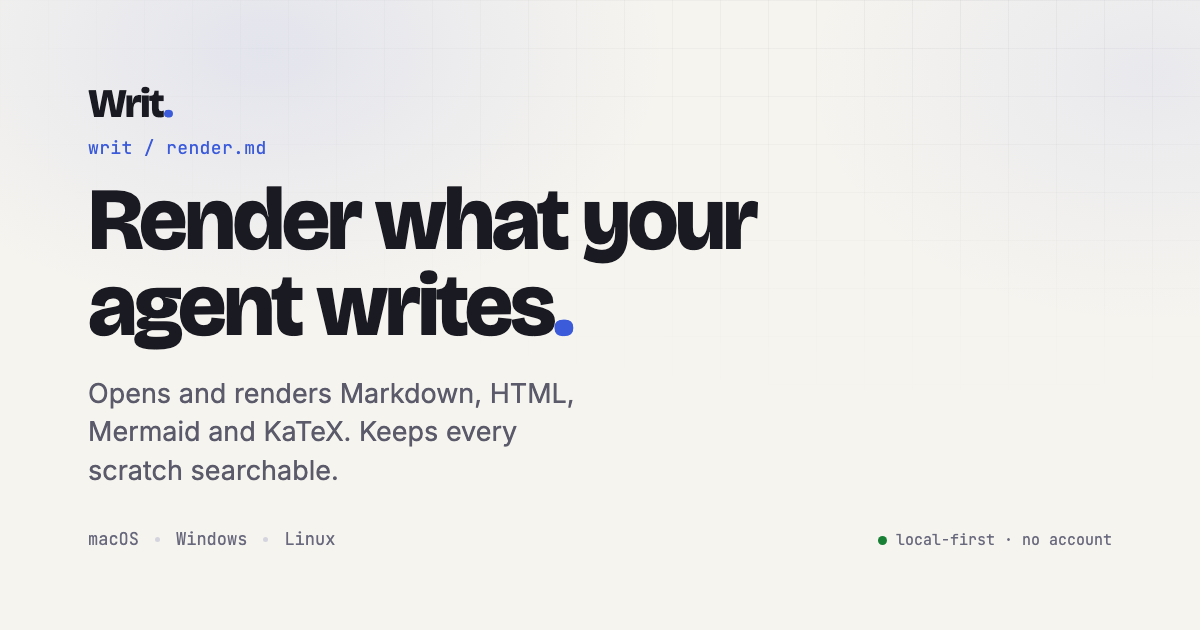
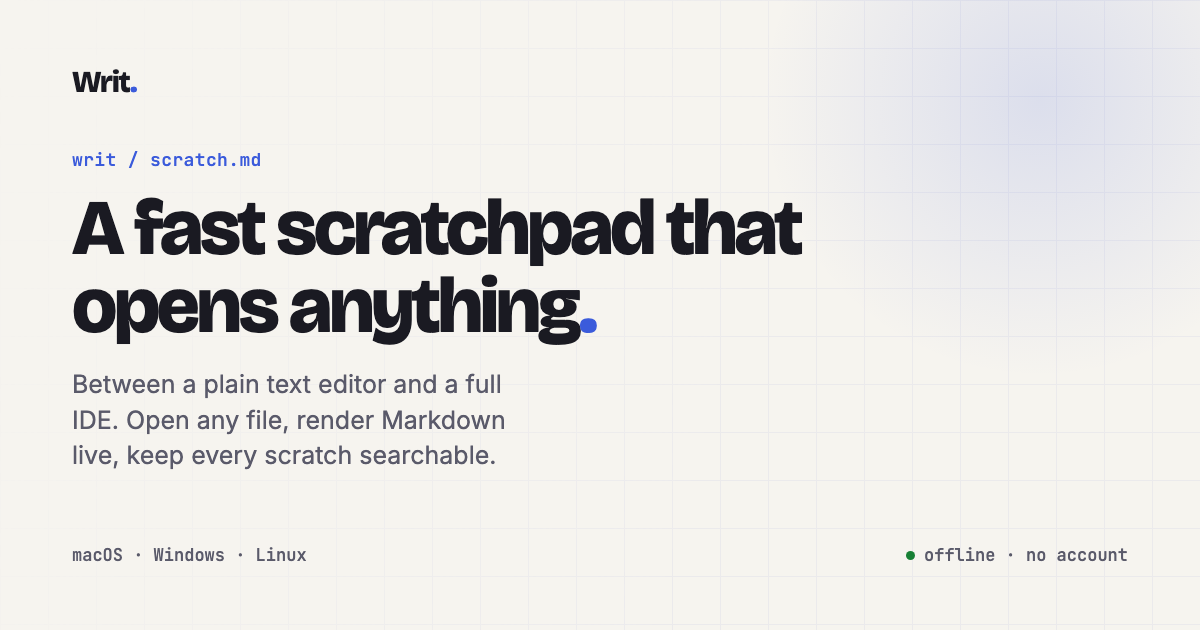
feat(site): lead the v2 landing with the editor identity
Rewrites the /v2 copy so the fast, keyboard-first scratchpad and viewer
leads and the Markdown/AI use rides alongside as one example, not the
headline. Touches the hero, sections, download, footer, ticker, page
title and meta description, plus a regenerated 1200x630 OG raster.

- Command palette shown as Shift+Shift to match the app's binding (was
  the design's ⌘K); the window also opens it on a double-tap of Shift.
- render: drop hrefs carrying javascript/data/vbscript schemes so an
  edited Markdown link can't run in the preview; covered by a test.
- Focus-visible rings on the header controls, CTAs and palette/search.

diff --git a/site/src/islands/WritWindow.tsx b/site/src/islands/WritWindow.tsx
@@ -59,6 +59,7 @@ export default function WritWindow() {
   const dynamicBuffers = useRef<Record<string, BufferMeta>>({});
   const newCount = useRef(0);
   const hover = useRef(false);
+  const lastShift = useRef(0);
   const lastMermaid = useRef('');
   const saveTimer = useRef<ReturnType<typeof setTimeout> | null>(null);
 
@@ -368,13 +369,23 @@ export default function WritWindow() {
 
     const onKey = (e: KeyboardEvent) => {
       const k = e.key;
-      if ((e.metaKey || e.ctrlKey) && (k === 'k' || k === 'K')) {
-        const focusWithin = rootRef.current?.contains(document.activeElement);
-        if (hover.current || focusWithin || paletteOpen) {
-          e.preventDefault();
-          togglePalette();
+      // Command palette opens on a double-tap of Shift (matches the app's Shift+Shift binding).
+      if (k === 'Shift' && !e.repeat && !e.metaKey && !e.ctrlKey && !e.altKey) {
+        const now = performance.now();
+        const within = now - lastShift.current < 400;
+        lastShift.current = now;
+        if (within) {
+          const focusWithin = rootRef.current?.contains(document.activeElement);
+          if (hover.current || focusWithin || paletteOpen) {
+            e.preventDefault();
+            lastShift.current = 0;
+            togglePalette();
+          }
         }
-      } else if (k === 'Escape' && paletteOpen) {
+        return;
+      }
+      lastShift.current = 0;
+      if (k === 'Escape' && paletteOpen) {
         setPaletteOpen(false);
       }
     };
@@ -563,8 +574,8 @@ export default function WritWindow() {
               +
             </button>
           </div>
-          <button className="ww-kbtn hide-sm" onClick={openPalette} aria-label="Open command palette" type="button">
-            ⌘K
+          <button className="ww-kbtn hide-sm" onClick={openPalette} aria-label="Open command palette (Shift Shift)" type="button">
+            ⇧⇧
           </button>
         </div>
 
@@ -683,7 +694,7 @@ export default function WritWindow() {
             <div className="ww-palette-scrim" onClick={() => setPaletteOpen(false)}>
               <div className="ww-palette" onClick={(e) => e.stopPropagation()}>
                 <div className="ww-palette-head">
-                  <span className="ww-palette-glyph">⌘K</span>
+                  <span className="ww-palette-glyph">⇧⇧</span>
                   <input
                     ref={paletteRef}
                     value={paletteQuery}
@@ -757,14 +768,14 @@ export default function WritWindow() {
               </button>
             </div>
           )}
-          <button className="stog" onClick={openPalette} aria-label="Open command palette" style={{ color: 'var(--foreground)' }}>
-            ⌘K
+          <button className="stog" onClick={openPalette} aria-label="Open command palette (Shift Shift)" style={{ color: 'var(--foreground)' }}>
+            ⇧⇧
           </button>
         </div>
       </div>
       <p className="ww-caption">
-        Live window. Switch tabs, edit <span className="ww-mono">report.md</span>, press{' '}
-        <span className="ww-mono">⌘K</span>, search.
+        Live window. Switch tabs, edit <span className="ww-mono">report.md</span>, double-tap{' '}
+        <span className="ww-mono">⇧</span>, search.
       </p>
     </div>
   );

diff --git a/site/src/islands/writ/__tests__/window.test.tsx b/site/src/islands/writ/__tests__/window.test.tsx
@@ -18,15 +18,32 @@ describe('WritWindow', () => {
     }
   });
 
-  it('opens the command palette from a ⌘K button', () => {
+  it('opens the command palette from a ⇧⇧ button', () => {
     render(<WritWindow />);
-    fireEvent.click(screen.getAllByRole('button', { name: 'Open command palette' })[0]!);
+    fireEvent.click(screen.getAllByRole('button', { name: 'Open command palette (Shift Shift)' })[0]!);
     expect(screen.getByPlaceholderText('Type a command…')).toBeTruthy();
+  });
+
+  it('opens the command palette on a double-tap of Shift when focused', () => {
+    render(<WritWindow />);
+    const input = screen.getByPlaceholderText('Search buffers…') as HTMLInputElement;
+    input.focus();
+    fireEvent.keyDown(document, { key: 'Shift' });
+    fireEvent.keyDown(document, { key: 'Shift' });
+    expect(screen.getByPlaceholderText('Type a command…')).toBeTruthy();
+  });
+
+  it('does not open the palette on a single Shift', () => {
+    render(<WritWindow />);
+    const input = screen.getByPlaceholderText('Search buffers…') as HTMLInputElement;
+    input.focus();
+    fireEvent.keyDown(document, { key: 'Shift' });
+    expect(screen.queryByPlaceholderText('Type a command…')).toBeNull();
   });
 
   it('runs a transform from the palette and marks the buffer edited', () => {
     render(<WritWindow />);
-    fireEvent.click(screen.getAllByRole('button', { name: 'Open command palette' })[0]!);
+    fireEvent.click(screen.getAllByRole('button', { name: 'Open command palette (Shift Shift)' })[0]!);
     fireEvent.click(screen.getByText('Trim Leading Whitespace'));
     expect(screen.getByText('Edited')).toBeTruthy();
   });

diff --git a/site/src/styles/v2.css b/site/src/styles/v2.css
@@ -632,6 +632,21 @@
 .ftab:focus-visible,
 .ftab .x:focus-visible { outline: 2px solid var(--accent); outline-offset: 1px; }
 
+/* Header controls, CTAs and section triggers — visible keyboard focus. */
+.seg:focus-visible,
+.topnav a:focus-visible,
+.v2-btn-primary:focus-visible,
+.v2-btn-ghost:focus-visible,
+.gtrig:focus-visible,
+.dlbtn:focus-visible,
+.ww-kbtn:focus-visible,
+.ww-newtab:focus-visible,
+.stog:focus-visible,
+.srow:focus-visible,
+.pcmd:focus-visible,
+.ww-search-input:focus-visible,
+.ww-palette-input:focus-visible { outline: 2px solid var(--accent); outline-offset: 2px; border-radius: 8px; }
+
 /* ─── Reduced motion ─────────────────────────────────────────────────────── */
 @media (prefers-reduced-motion: reduce) {
   .ticker .track { animation: none; transform: none; }

diff --git a/site/src/islands/writ/__tests__/render.test.ts b/site/src/islands/writ/__tests__/render.test.ts
@@ -71,6 +71,16 @@ describe('renderInline', () => {
     expect(link).toContain('rel="noopener noreferrer"');
     expect(link).toContain('target="_blank"');
   });
+
+  it('drops the href on script-scheme links but keeps the label', () => {
+    for (const scheme of ['javascript:alert', 'JAVASCRIPT:alert', 'data:text/html,x', 'vbscript:msgbox']) {
+      const out = renderInline(`[click](${scheme})`);
+      expect(out).toContain('click');
+      expect(out).not.toContain('<a');
+      expect(out).not.toContain('href');
+      expect(out.toLowerCase()).not.toContain('script:');
+    }
+  });
 });
 
 describe('tokens', () => {

diff --git a/site/src/islands/writ/render.ts b/site/src/islands/writ/render.ts
@@ -9,6 +9,12 @@ function escapeAttr(s: string): string {
   return escapeHtml(s).replace(/"/g, '&quot;');
 }
 
+// Drop hrefs that carry an executable scheme. The editable surface is Markdown,
+// so a [label](javascript:…) link would otherwise stay clickable in the preview.
+function isSafeUrl(url: string): boolean {
+  return !/^\s*(javascript|data|vbscript|file):/i.test(url);
+}
+
 const PH_OPEN = String.fromCharCode(0);
 const PH_CLOSE = String.fromCharCode(1);
 
@@ -26,7 +32,9 @@ export function renderInline(text: string): string {
   t = t.replace(
     /\[([^\]]+)\]\(([^)]+)\)/g,
     (_m, label: string, url: string) =>
-      '<a href="' + escapeAttr(url) + '" target="_blank" rel="noopener noreferrer">' + label + '</a>',
+      isSafeUrl(url)
+        ? '<a href="' + escapeAttr(url) + '" target="_blank" rel="noopener noreferrer">' + label + '</a>'
+        : label,
   );
   t = t.replace(/\*\*([^*]+)\*\*/g, '<strong>$1</strong>');
   t = t.replace(/(^|[^*])\*([^*\n]+)\*/g, '$1<em>$2</em>');

diff --git a/site/src/islands/writ/buffers.ts b/site/src/islands/writ/buffers.ts
@@ -165,7 +165,7 @@ const releaseHtml = join([
   '<section style="font-family:system-ui; max-width:540px">',
   '  <h1 style="margin:0 0 8px">Writ 1.0 is here</h1>',
   '  <p style="color:#5a5a6a; line-height:1.5">Render Markdown, HTML, Mermaid and KaTeX the',
-  '  instant your agent writes it — fully offline, with every scratch searchable.</p>',
+  '  moment you open a file — fully offline, with every scratch searchable.</p>',
   '  <p><a href="#" style="color:#3b5bdb">Get it for macOS, Windows or Linux →</a></p>',
   '</section>',
 ]);
@@ -197,7 +197,7 @@ const writ4471 = join([
 const writ3182 = join([
   '# scratch — gradient step',
   '',
-  'The update rule the agent derived:',
+  'The update rule:',
   '',
   '$$\\theta_{t+1} = \\theta_t - \\eta\\,\\nabla_\\theta J(\\theta_t)$$',
   '',